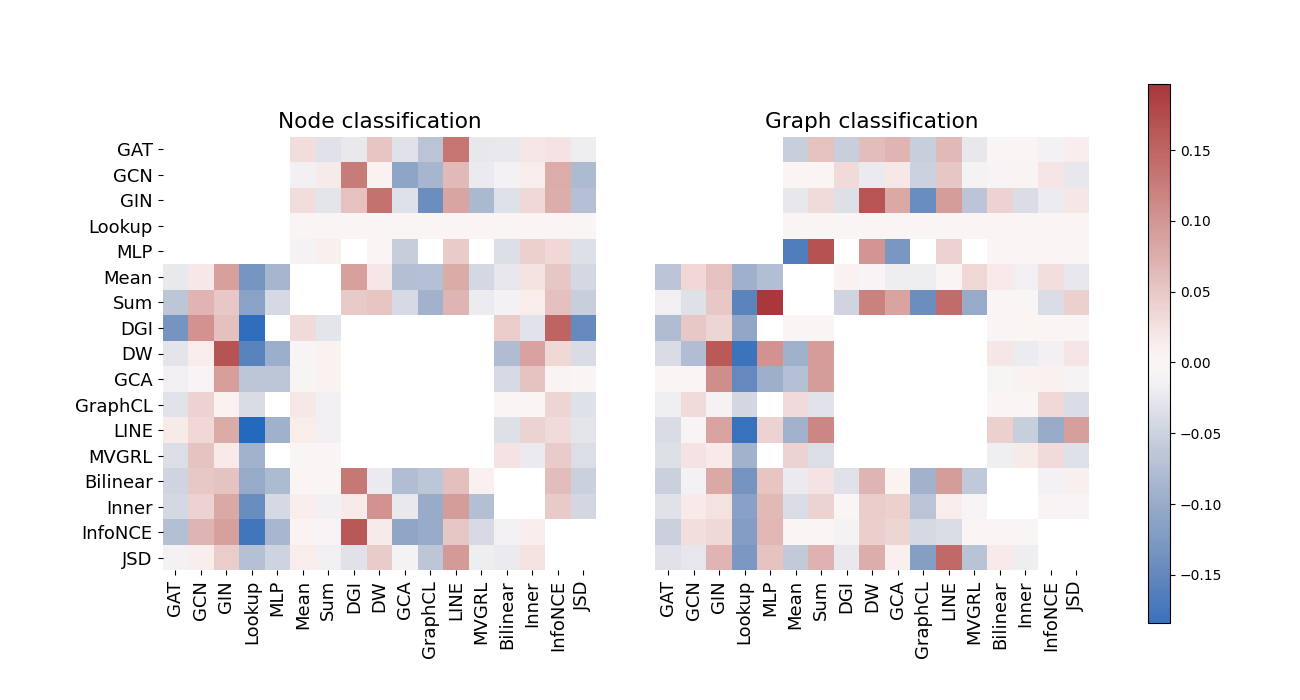
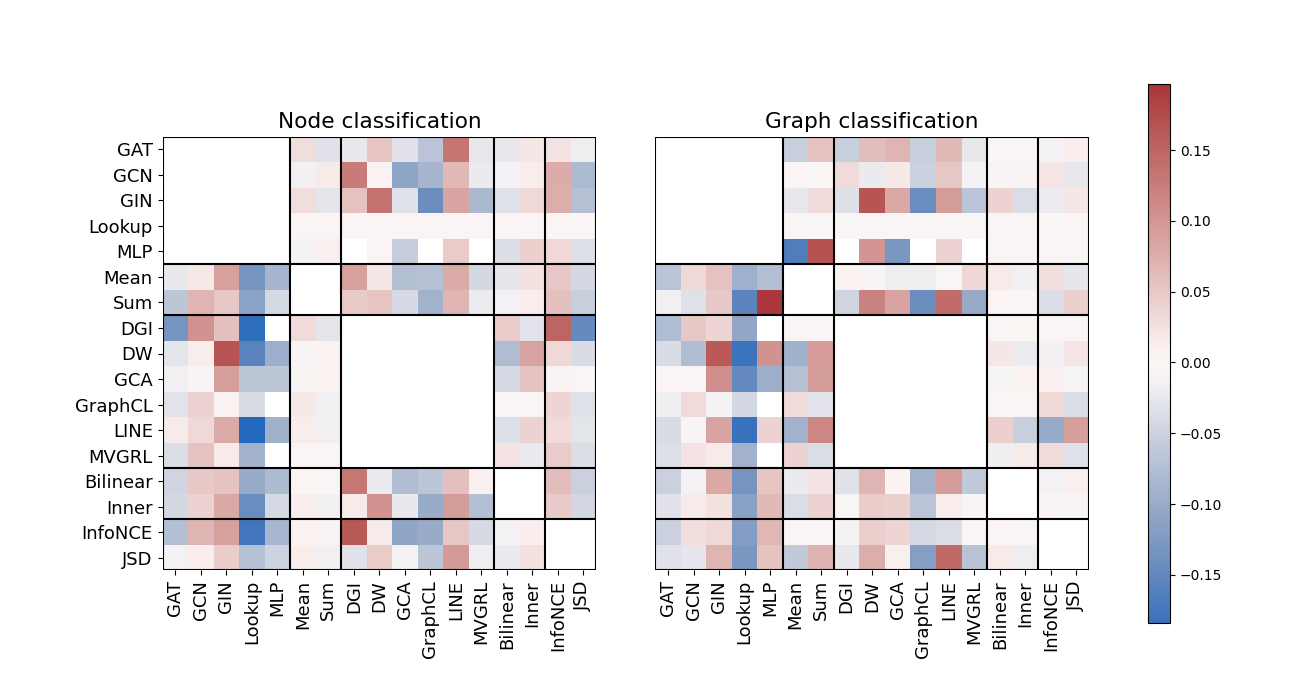
blocks

diff --git a/exps/src/combined_analyse.py b/exps/src/combined_analyse.py
@@ -128,7 +128,17 @@ def work(args):
     # plt.tight_layout()
     sns.heatmap(df, cbar=False, square=True, cmap = 'vlag', center=0, ax=axs[0]).set_title("Node classification")
     sns.heatmap(df2, yticklabels=False, cbar=False, square=True, cmap = 'vlag', center=0, ax=axs[1]).set_title("Graph classification")
+    def blocks(ax):
+        wid = module_intv[modelargs[-1]].stop
+        for m_arg in modelargs:
+            pos = module_intv[m_arg].stop
+            ax.plot([0, wid], [pos, pos], color='black')
+            ax.plot([pos, pos], [0, wid], color='black')
+        ax.plot([0, wid], [0, 0], color='black')
+        ax.plot([0, 0], [0, wid], color='black')
 
+    blocks(axs[0])
+    blocks(axs[1])
     fig.colorbar(axs[1].collections[0], cax=axs[2])
     for ax in fig.axes:
             plt.sca(ax)
